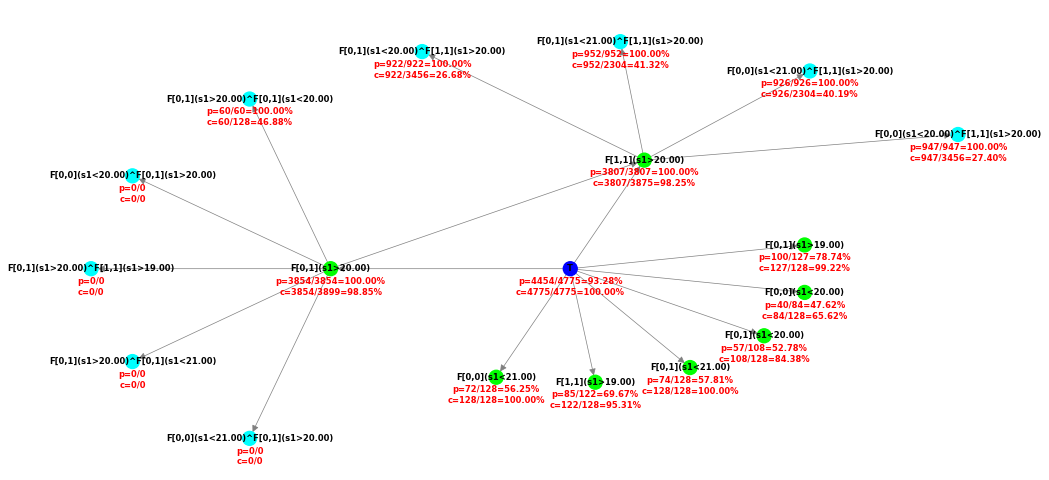
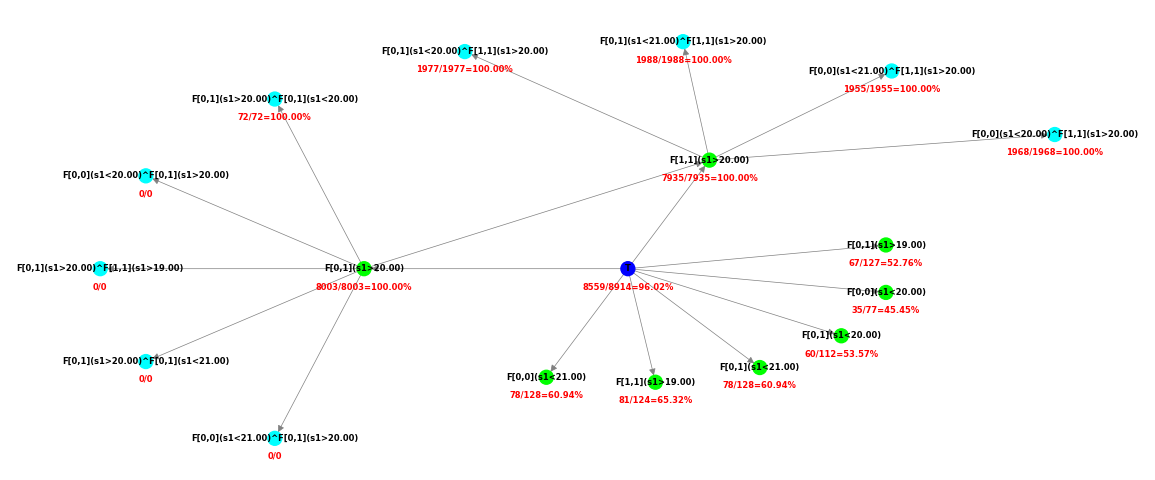
Fixed tree visualization

diff --git a/main.py b/main.py
@@ -27,60 +27,9 @@ def acas_xu(params) -> Simulator:
     mins = [0.0, 0.0, -np.pi]
     maxes = [8000.0, np.pi, 0.0]
     params['s'] = acasxu.run()
-    params['range'] = [(0, (mins[i], maxes[i], 8)) for i in range(3)]
-    params['range'] += [(1, list(range(5)))]
+    params['range'] = [(0, (0, 8000, 16)), (0, (0, np.pi, 8))]
+    params['range'] += [(0, (-np.pi, 0, 8)), (1, list(range(5)))]
     params['tau'] = 0.95
-    params['epsilon'] = 0.015
-    params['max_depth'] = 5
-    params['past'] = True
-    return acasxu
-
-def acas_xu2(params) -> Simulator:
-    from models.acas_xu import ACAS_XU
-
-    state0 = np.array([5000.0, np.pi/4, -np.pi/2, 300.0, 100.0])
-    acasxu = ACAS_XU(state0, tdelta=1.0, slen=10)
-    acasxu.load_nnets()
-    mins = [0.0, 0.0, -np.pi]
-    maxes = [8000.0, np.pi, 0.0]
-    params['s'] = acasxu.run()
-    params['range'] = [(0, (mins[i], maxes[i], 16)) for i in range(3)]
-    params['range'] += [(1, list(range(5)))]
-    params['tau'] = 0.95
-    params['epsilon'] = 0.015
-    params['max_depth'] = 5
-    params['past'] = True
-    return acasxu
-
-def acas_xu3(params) -> Simulator:
-    from models.acas_xu import ACAS_XU
-
-    state0 = np.array([5000.0, np.pi/4, -np.pi/2, 300.0, 100.0])
-    acasxu = ACAS_XU(state0, tdelta=1.0, slen=10)
-    acasxu.load_nnets()
-    mins = [0.0, 0.0, -np.pi]
-    maxes = [8000.0, np.pi, 0.0]
-    params['s'] = acasxu.run()
-    params['range'] = [(0, (mins[i], maxes[i], 8)) for i in range(3)]
-    params['range'] += [(1, list(range(5)))]
-    params['tau'] = 0.98
-    params['epsilon'] = 0.015
-    params['max_depth'] = 5
-    params['past'] = True
-    return acasxu
-
-def acas_xu4(params) -> Simulator:
-    from models.acas_xu import ACAS_XU
-
-    state0 = np.array([5000.0, np.pi/4, -np.pi/2, 300.0, 100.0])
-    acasxu = ACAS_XU(state0, tdelta=1.0, slen=10)
-    acasxu.load_nnets()
-    mins = [0.0, 0.0, -np.pi]
-    maxes = [8000.0, np.pi, 0.0]
-    params['s'] = acasxu.run()
-    params['range'] = [(0, (mins[i], maxes[i], 16)) for i in range(3)]
-    params['range'] += [(1, list(range(5)))]
-    params['tau'] = 0.98
     params['epsilon'] = 0.015
     params['max_depth'] = 5
     params['past'] = True
@@ -247,13 +196,12 @@ def run(simulator, params={}):
         except KeyboardInterrupt:
             logging.warning('Interrupted')
             interrupted = True
-        stls = tree.choose(stl)
-        for stl in stls:
-            logging.info(tree.log(stl))
-        if tree.anchor_found or len(stl) >= max_depth:
+        new_stl = tree.choose(stl)
+        logging.info(tree.log(new_stl))
+        if tree.anchor_found or len(new_stl) >= max_depth:
             return
-        tree.clean(stl, stls[0])
-        stl = stls[0]
+        tree.clean(stl, new_stl)
+        stl = new_stl
 
 
 def set_logger(simulator=None):
@@ -284,17 +232,14 @@ def main():
     set_logger()
     simulators = []
     #simulators.append('thermostat')
-    simulators.append('acas_xu')
-    simulators.append('acas_xu2')
-    simulators.append('acas_xu3')
-    simulators.append('acas_xu4')
+    #simulators.append('acas_xu')
     simulators.append('auto_transmission')
     #simulators.append('auto_transmission2')
-    simulators.append('auto_transmission3')
-    simulators.append('auto_transmission4')
-    simulators.append('auto_transmission5')
+    #simulators.append('auto_transmission3')
+    #simulators.append('auto_transmission4')
+    #simulators.append('auto_transmission5')
     #simulators.append('auto_transmission6')
-    simulators.append('auto_transmission7')
+    #simulators.append('auto_transmission7')
     for simulator in simulators:
         set_logger(simulator)
         run(simulator)

diff --git a/mcts.py b/mcts.py
@@ -48,7 +48,7 @@ class MCTS:
         self.children.pop(parent, None)
     
     def choose(self, node):
-        "Choose the best successor of node. (Choose a move in the game)"
+        "Choose the best successor of node (choose a move in the game)"
         
         def ucb1tuned(n):
             p, N = self.score(n), self.N[n]
@@ -58,24 +58,22 @@ class MCTS:
             return p - tmp * math.sqrt(min(0.25, p * (1 - p) + tmp))
         
         if all(self.score(n) < self.tau for n in self.children[node]):
-            return [max(self.children[node], key=ucb1tuned)]
+            return max(self.children[node], key=ucb1tuned)
         
         self.anchor_found = True
-        best = max(self.children[node], key=self.score)
-        return self._best_anchors(best)
+        best = max(self.children[node], key=ucb1tuned)
+        return self._best_anchor(best)
         
-    def _best_anchors(self, node):
-        res = [node]
+    def _best_anchor(self, node):
         if self.ancestors is None:
-            return res        
+            return node  
         while True:
-            parent = res[-1]
+            parent = node
             try:
                 parent = next(iter(n for n in self.ancestors[parent] 
                                     if self.score(n) >= self.tau))
             except StopIteration:
-                return res[::-1]
-            res.append(parent)
+                return parent
 
     def train(self, node):
         "Rollout the tree from `node` until error is smaller than `epsilon`"
@@ -88,7 +86,7 @@ class MCTS:
             self._rollout(node)
 
             if self.children[node]:
-                best = self.choose(node)[0]
+                best = self.choose(node)
                 p, N = self.score(best), self.N[best]
                 if N:
                     tmp = math.sqrt(self.ce * math.log(self.N[node]) / N)

diff --git a/visual.py b/visual.py
@@ -31,10 +31,9 @@ class Visual:
     def _node_label(self, node):
         q = self.tree.Q[node]
         n = self.tree.N[node]
-        m = self.tree.M[node]
         if n:
-            return f'\np={q}/{n}={q/n:5.2%}\nc={n}/{m}={n/m:5.2%}'
-        return f'\np=0/0\nc=0/{m}'
+            return f'\n{q}/{n}={q/n:5.2%}'
+        return f'\n0/0'
     
     def _layout(self, prog):
         auxG = nx.DiGraph(self.G)
@@ -50,17 +49,17 @@ class Visual:
 if __name__ == '__main__':
     import numpy as np
     from mcts import MCTS
-    from stl import STL, PrimitiveGenerator, Simulator
+    from stl import STL, PrimitiveGenerator
     from models.thermostat import Thermostat
     
     simulator   = Thermostat(out_temp=19, exp_temp=20, latency=2, length=5)
     s           = np.array([[19, 21]])
     srange      = [(0, (18, 22, 4))]
-    tau         = 0.9999
+    tau         = 1.0
     batch_size  = 128
     tau         = 0.95
     rho         = 0.01
-    epsilon     = 0.3
+    epsilon     = 0.01
     past        = False
     max_depth   = 2
 
@@ -68,13 +67,7 @@ if __name__ == '__main__':
     primitives = PrimitiveGenerator(s, srange, rho, past).generate()    
     nb = stl.init(primitives, simulator)
     tree = MCTS(max_depth=max_depth, epsilon=epsilon, tau=tau)
-    move = 0
-    while True:
-        move += 1
-        tree.set_batch_size(batch_size)
-        nb = tree.train(stl)
-        stls = tree.choose(stl)
-        if len(stls) > 1 or len(stl) >= max_depth:
-            break
-        stl = stls[0]
+    tree.set_batch_size(batch_size)
+    for _ in range(200):
+        tree._rollout(stl)
     tree.visualize()

diff --git a/models/auto_transmission.py b/models/auto_transmission.py
@@ -139,12 +139,10 @@ class AutoTransmission(Simulator):
     def run(self):
         for _ in range(self.slen):
             self.update()
-        return np.vstack([self.espds, self.vspds, self.throttles, self.gears])[:, -4:]
+        return np.vstack([self.espds, self.vspds, self.throttles, self.gears])[:, 1:]
 
     def simulate(self):
         throttles = list(np.random.random(self.slen))
-        #noise = np.random.uniform(-0.5, 0.5, self.slen)
-        #throttles = np.clip(np.array(self.throttles) + noise, 0.0, 1.0)
         at = AutoTransmission(throttles, self.thetas, self.tdelta)
         sample = at.run()
         return sample, at.gear == 3

diff --git a/models/thermostat.py b/models/thermostat.py
@@ -25,7 +25,7 @@ class Thermostat(Simulator):
             # on if in_temp below exp_temp for at least *latency*
             self.on = self._black_box(np.array([self.temps]))
             self.ons.append(self.on)
-        return np.array([self.temps])
+        return np.array([self.temps])#[-2:]])
     
     def _black_box(self, sample):
         "on if `in_temp` below `exp_temp` for at least `latency`"

diff --git a/models/acas_xu.py b/models/acas_xu.py
@@ -41,7 +41,7 @@ class ACAS_XU(Simulator):
         self.v_own = self.norm_v_own * np.array([np.sin(psi0), np.cos(psi0)])
         self.a_prev = 4
         self.a_actual = 4
-        self.sample = np.zeros((3, 4))
+        self.sample = np.zeros((3, slen))
 
     def load_nnets(self):
         for a_prev in range(5):
